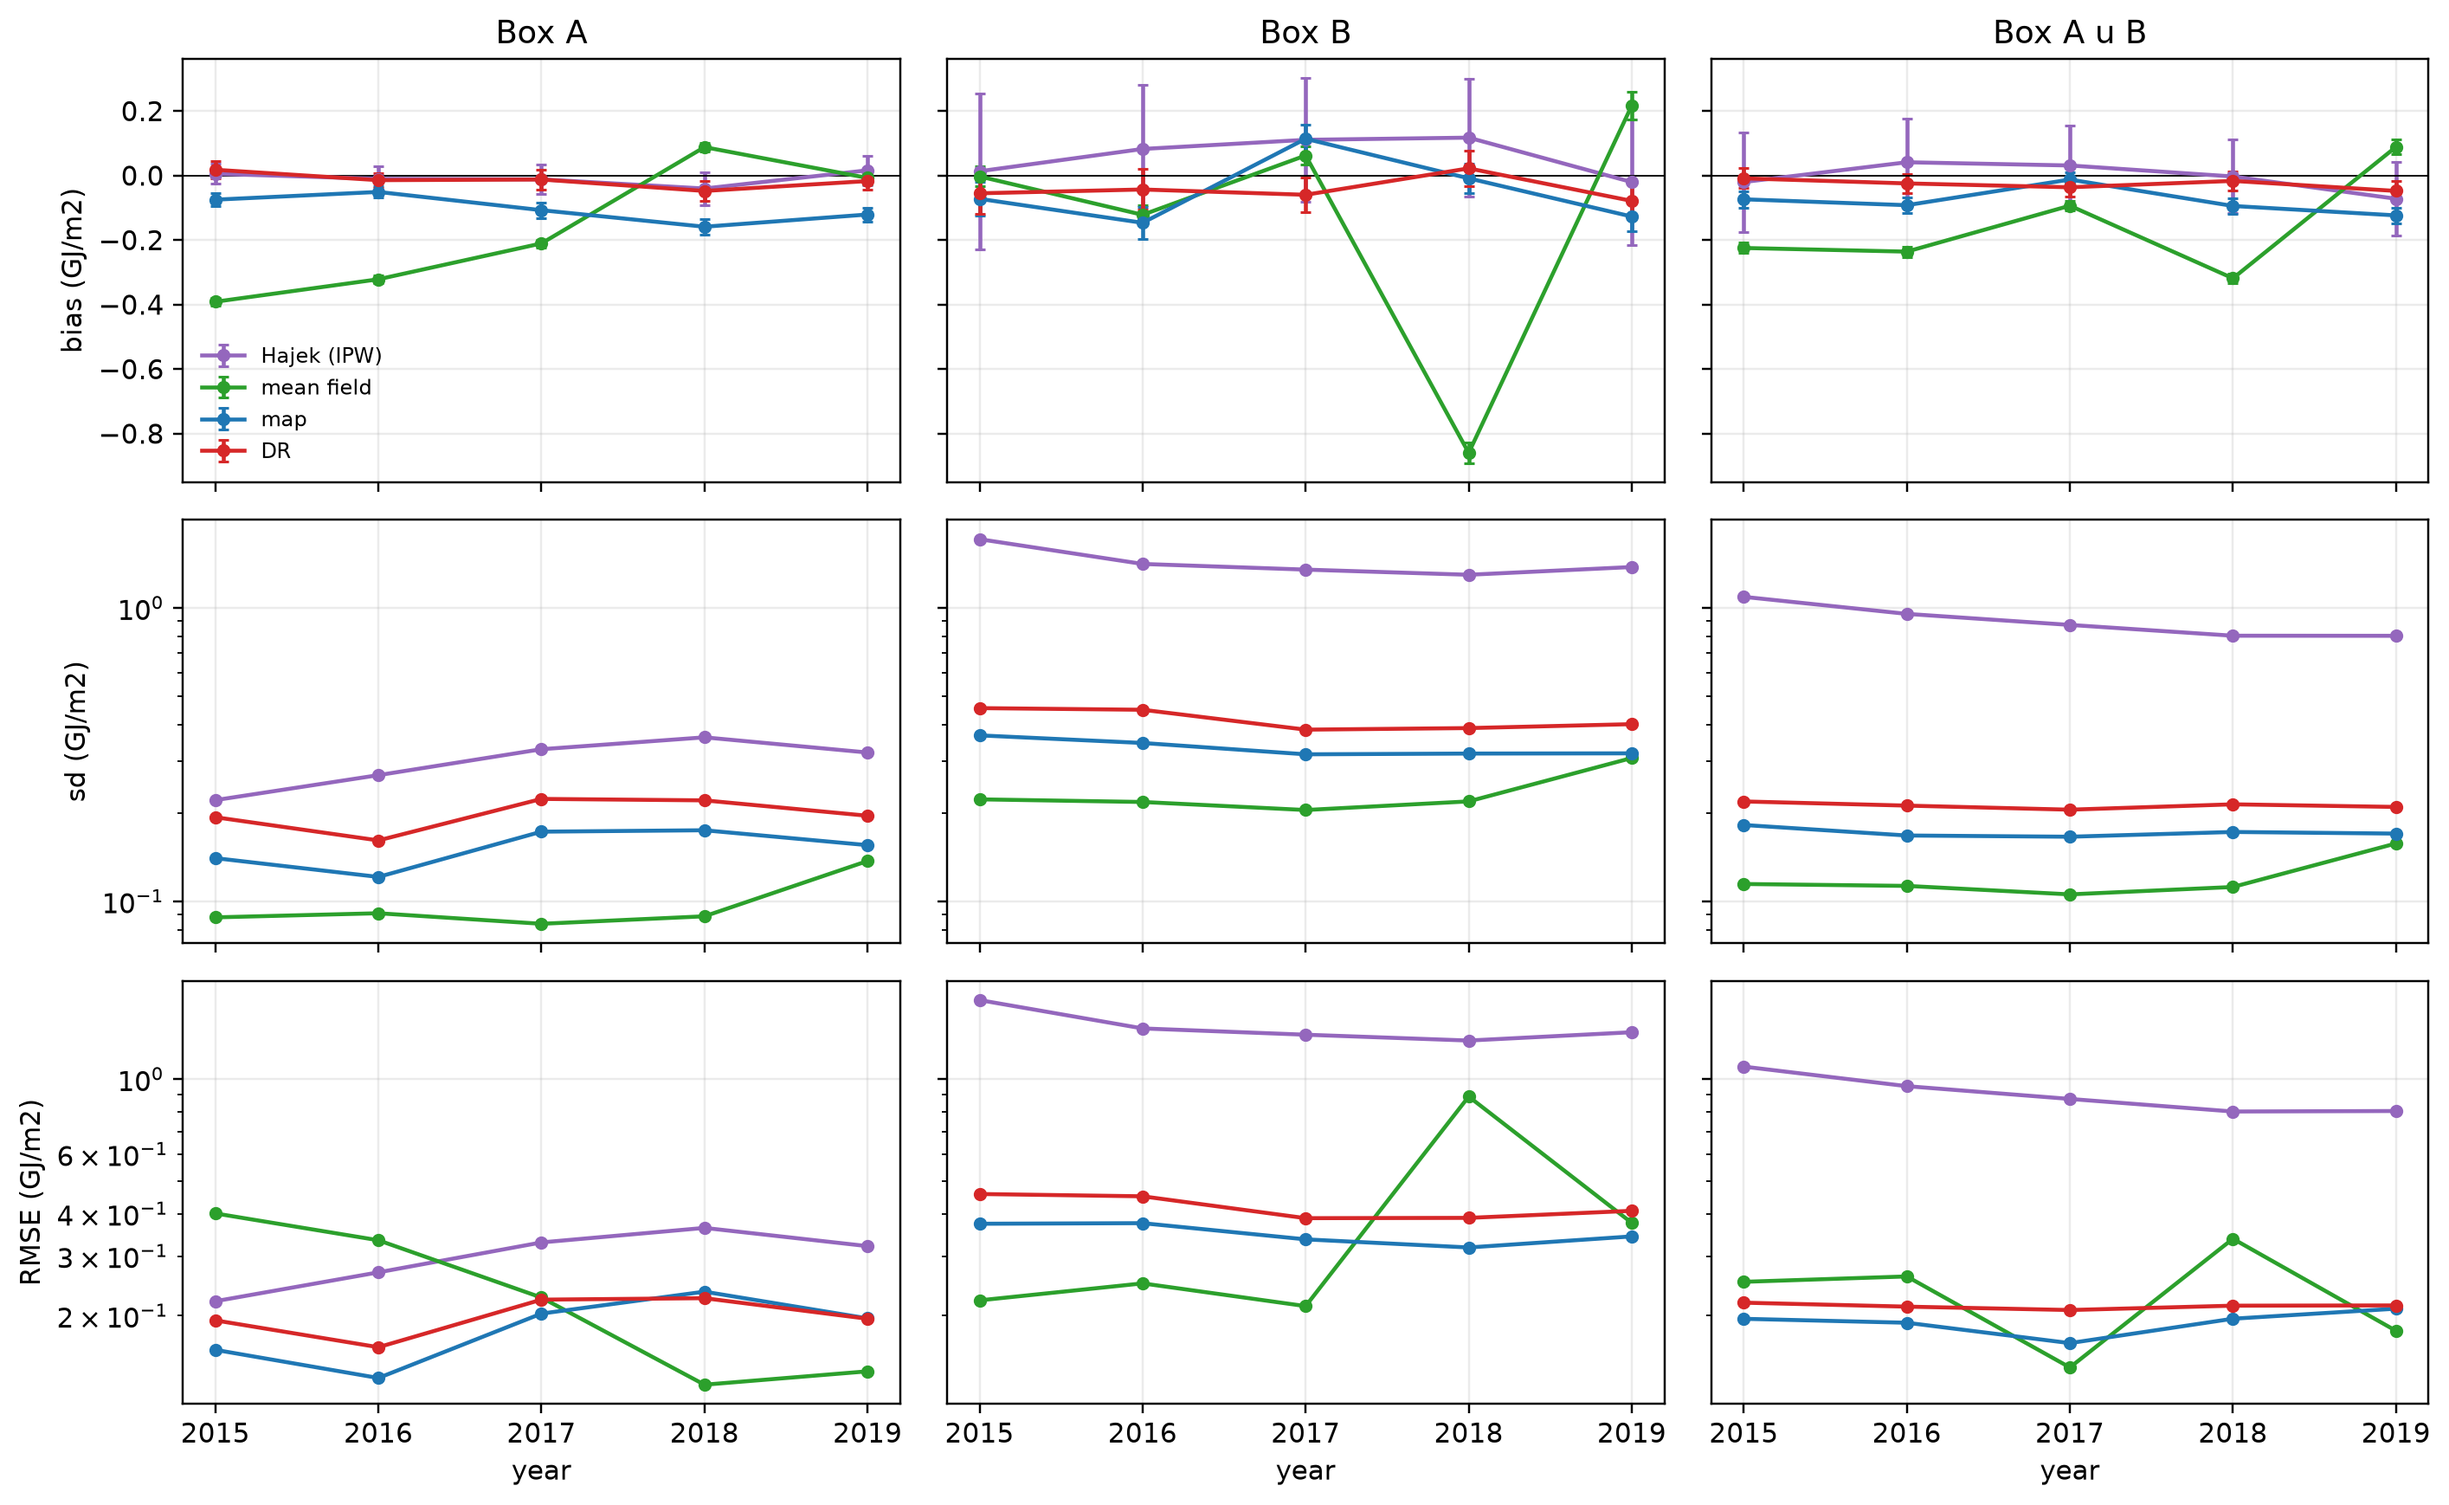
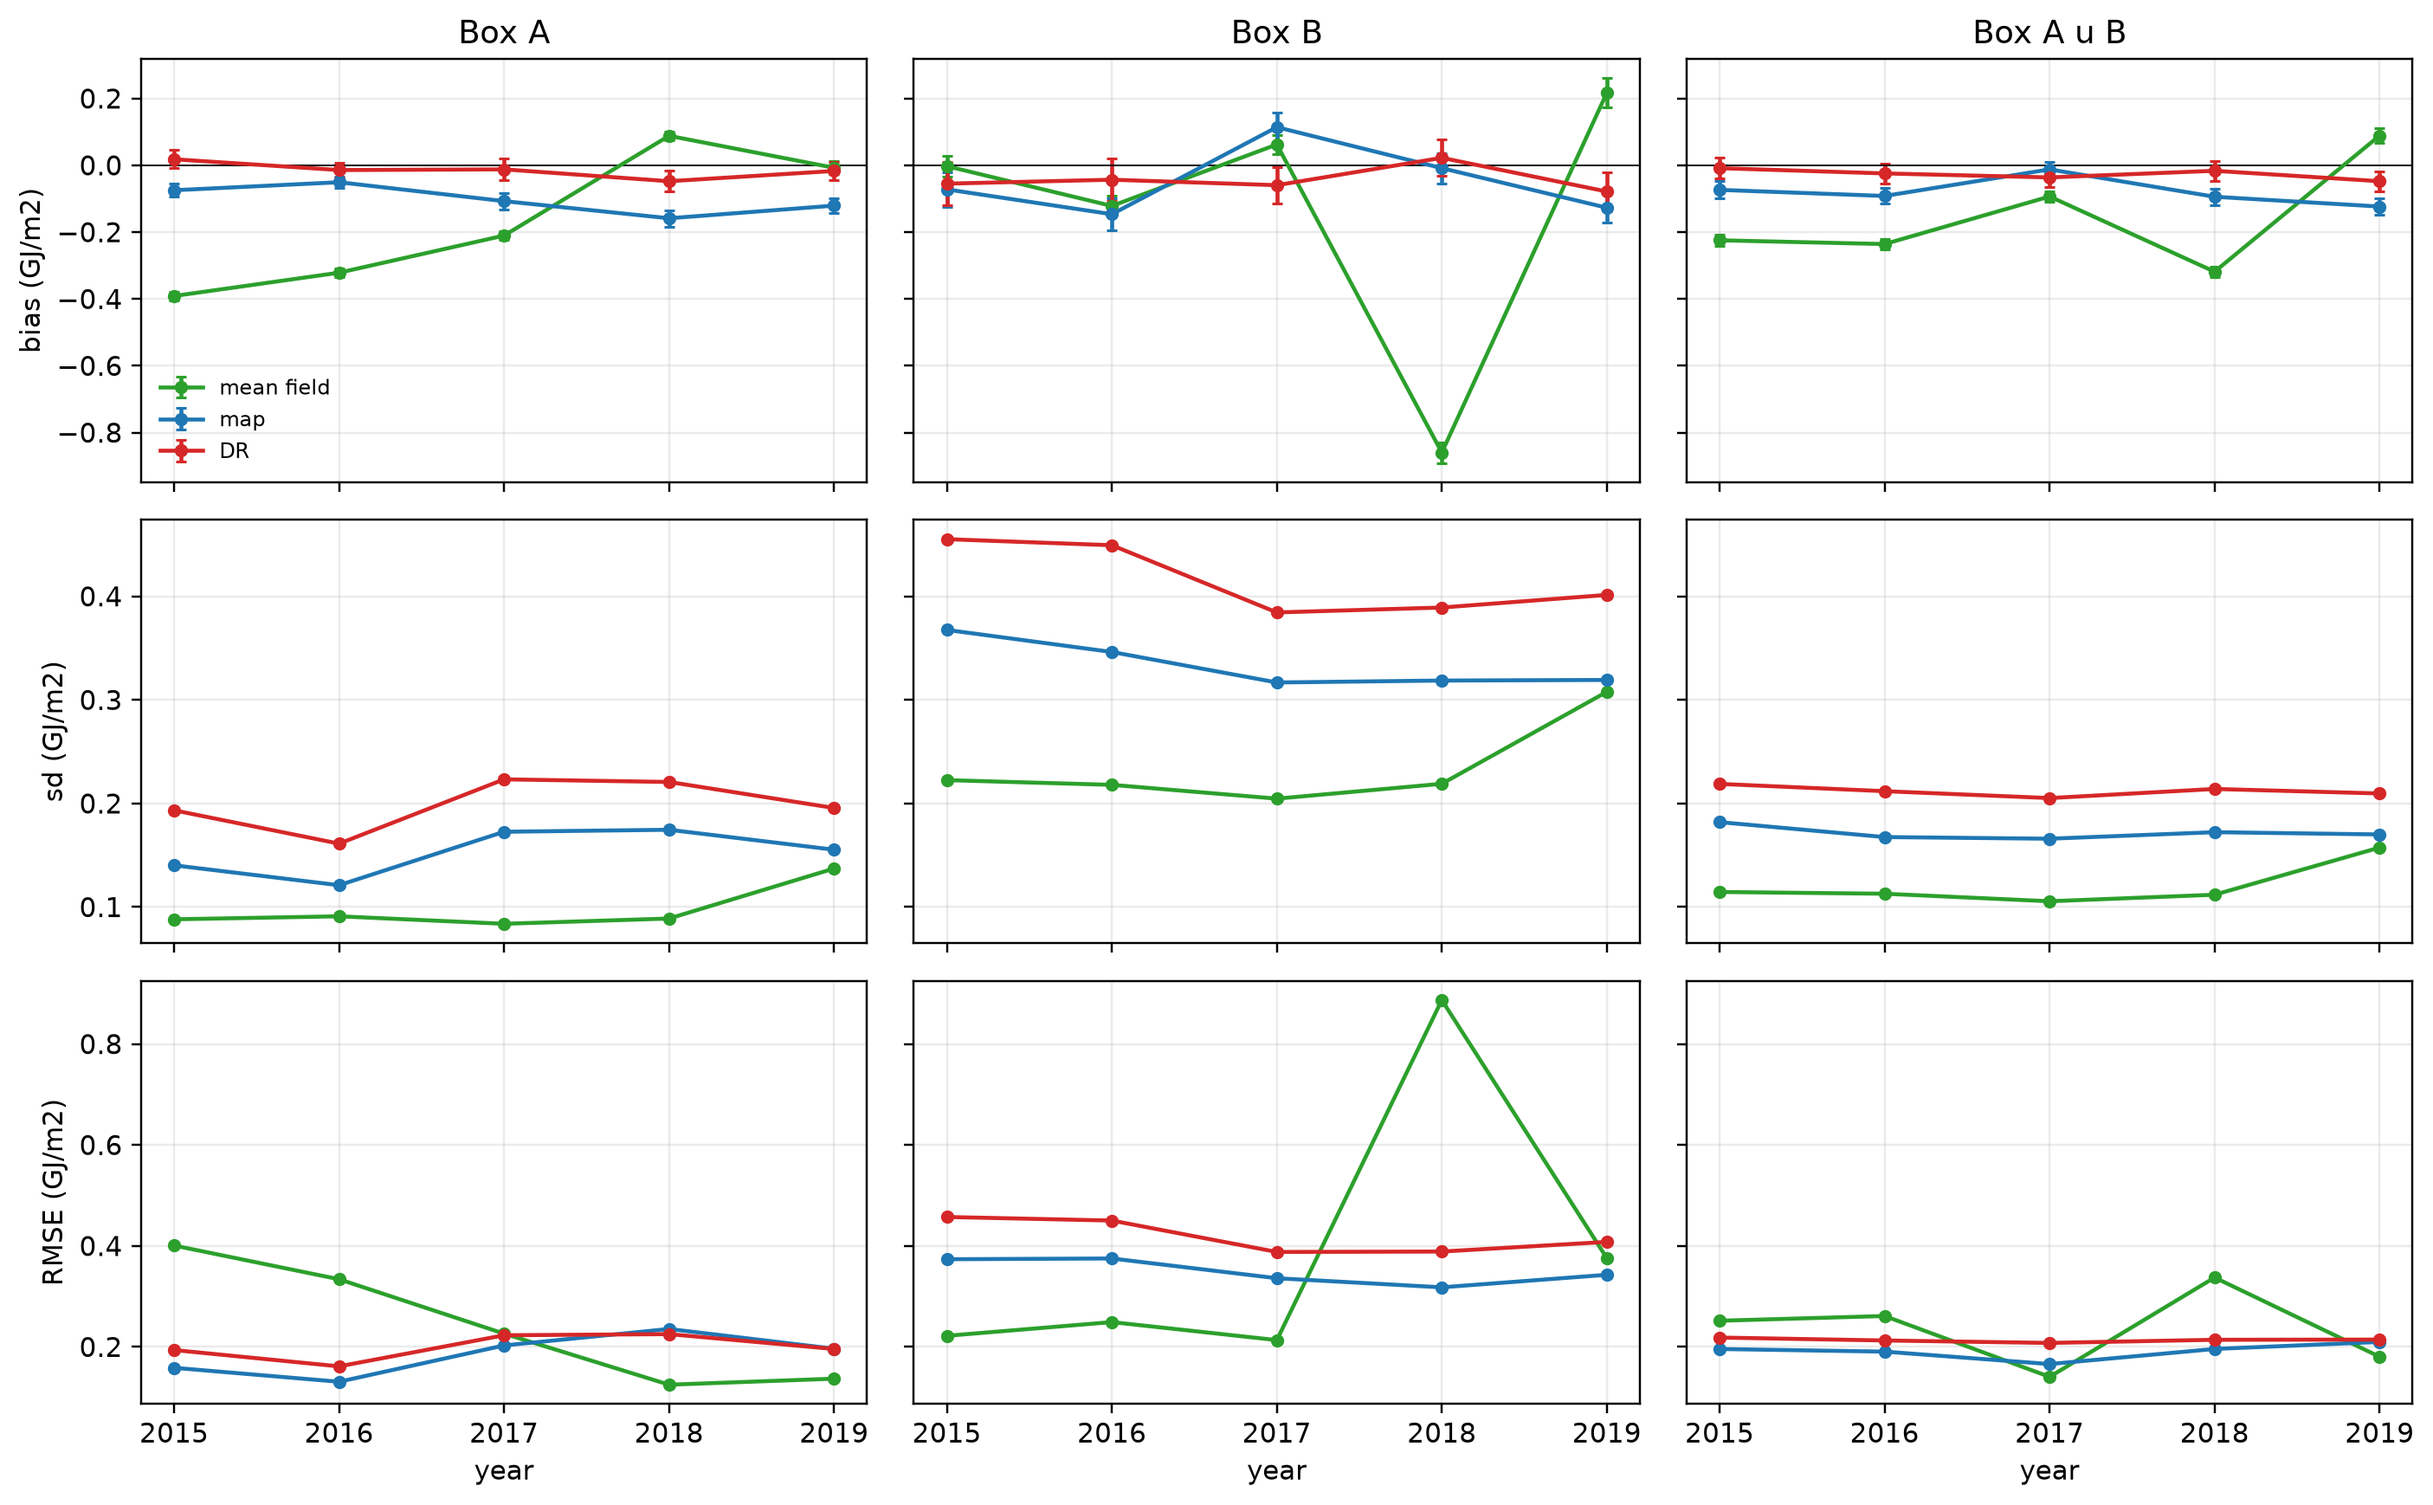
glorys_chain: drop Hajek from figures, quarterly q-hat grid, reweighting decomposition by cell

diff --git a/code/osim/chain.py b/code/osim/chain.py
@@ -610,6 +610,55 @@ def fold_means(maxrep=200):
     return out
 
 
+def residual_cells(maxrep=200):
+    """Held-out residuals pooled over replicates and years on the 0.5 deg node cells: count, mean residual,
+    mean relative weight r = v / mean v within its box-year-fold, and the sum of (r - 1) e, the cell's share
+    of C_k minus the unweighted mean (GJ/m2), cached."""
+    f = os.path.join(OUT, f"residual_cells{KS}.parquet")
+    if os.path.exists(f):
+        return pd.read_parquet(f)
+    out = []
+    for r in range(maxrep):
+        pf = rep_profiles(r)[0]
+        g = pf.groupby(["box", "year", "fold"])
+        pf = pf.assign(rel=pf.v / g.v.transform("mean"), e=pf.e * 1e-9, cnt=g.e.transform("size"))
+        out.append(pf.assign(shift=(pf.rel - 1) * pf.e / pf.cnt)[["box", "lat", "lon", "e", "rel", "shift"]])
+    p = pd.concat(out, ignore_index=True)
+    p["lat"] = (np.floor(p.lat / gd.NODE_DEG) + 0.5) * gd.NODE_DEG
+    p["lon"] = (np.floor(p.lon / gd.NODE_DEG) + 0.5) * gd.NODE_DEG
+    c = p.groupby(["box", "lat", "lon"]).agg(n=("e", "size"), e=("e", "mean"), rel=("rel", "mean"),
+                                            shift=("shift", "sum")).reset_index()
+    c["shift"] /= maxrep * len(YEARS) * K
+    c.to_parquet(f)
+    return c
+
+
+def plot_residual_cells(c, n_min=30, figsize=(14, 4.8)):
+    """Per 0.5 deg cell: the mean relative weight 1 / q-hat_k, the mean held-out map residual, and the cell's
+    contribution to the average gap between C_k and the unweighted residual mean."""
+    import matplotlib.pyplot as plt
+    from matplotlib.colors import LogNorm, TwoSlopeNorm
+    c = c[c.n >= n_min]
+    fig, ax = plt.subplots(1, 3, figsize=figsize, sharey=True)
+    xe, ye, g = _cells(c, c.rel)
+    lim = np.nanmax(np.abs(np.log(g)))
+    m = ax[0].pcolormesh(xe, ye, g, cmap="PuOr_r", norm=LogNorm(np.exp(-lim), np.exp(lim)))
+    fig.colorbar(m, ax=ax[0], shrink=0.7, orientation="horizontal", label="relative weight (log scale)")
+    for a, v, lab in ((ax[1], c.e, "mean residual Z - m(-k) (GJ/m2)"),
+                      (ax[2], c["shift"] * 1e3, "contribution to C_k - mean e (1e-3 GJ/m2)")):
+        xe, ye, g = _cells(c, v)
+        lim = np.nanquantile(np.abs(g), 0.99)
+        m = a.pcolormesh(xe, ye, g, cmap="RdBu_r", norm=TwoSlopeNorm(0, -lim, lim))
+        fig.colorbar(m, ax=a, shrink=0.7, orientation="horizontal", label=lab)
+    for a, t in zip(ax, ("weight 1/q-hat_k relative to its fold mean", "held-out map residual",
+                         "reweighting shift")):
+        _box_frame(a)
+        a.set_title(t, fontsize=10)
+    for a in ax[1:]:
+        a.set_ylabel("")
+    return fig
+
+
 def _cells(nd, v):
     """Node values on the regular 0.5 deg cell grid (edges, 2-d array) for pcolormesh."""
     i = np.floor(nd.lat.to_numpy() / gd.NODE_DEG).astype(int)
@@ -650,6 +699,38 @@ def plot_intensity(nd, prof, figsize=(12, 5.5)):
     for a in ax:
         _box_frame(a)
     fig.tight_layout()
+    return fig
+
+
+def plot_intensity_grid(nq=None, figsize=(12, 13)):
+    """Quarterly-mean design intensity q-hat = sum_c N_c q-hat_c, years by quarters, relative to its
+    area- and day-weighted mean over A u B in that year."""
+    import matplotlib.pyplot as plt
+    from matplotlib.colors import LogNorm
+    nq = pd.read_parquet(os.path.join(OUT, f"node_q{KS}.parquet")) if nq is None else nq
+    nq = nq[nq.box != "boxAB"]
+    Nc = cohort_sizes()
+    nq = nq.assign(q=nq[[f"q1_{c}" for c in Nc.index]].to_numpy(float) @ Nc.to_numpy(float),
+                   year=nq.month.dt.year, qtr=nq.month.dt.quarter, w=nq.month.dt.days_in_month)
+    qbar = nq.groupby("year").apply(lambda g: np.average(g.q, weights=g.w * g.area))
+    g = nq.assign(qw=nq.q * nq.w).groupby(["year", "qtr", "node", "lat", "lon"])[["qw", "w"]].sum().reset_index()
+    g["wh"] = g.qw / g.w / g.year.map(qbar)
+    pos = g.wh[g.wh > 0]
+    lim = np.abs(np.log(np.nanquantile(pos, [0.005, 0.995]))).max()
+    norm = LogNorm(np.exp(-lim), np.exp(lim))
+    years = sorted(g.year.unique())
+    fig, ax = plt.subplots(len(years), 4, figsize=figsize, sharex=True, sharey=True)
+    for i, y in enumerate(years):
+        for j in range(4):
+            d = g[(g.year == y) & (g.qtr == j + 1)]
+            xe, ye, v = _cells(d, np.where(d.wh > 0, d.wh, np.nan))
+            m = ax[i, j].pcolormesh(xe, ye, v, cmap="magma", norm=norm)
+            _box_frame(ax[i, j])
+            ax[i, j].set(xlabel="", ylabel="")
+            if i == 0:
+                ax[i, j].set_title(("Jan-Mar", "Apr-Jun", "Jul-Sep", "Oct-Dec")[j], fontsize=10)
+        ax[i, 0].set_ylabel(f"{y}\nlat")
+    fig.colorbar(m, ax=ax, shrink=0.5, label="w-hat = q-hat / annual mean (log scale)")
     return fig
 
 
@@ -808,8 +889,6 @@ def plot_by_year(s, est_lab, box_lab, figsize=(13, 8)):
         ax[-1, j].set(xlabel="year", xticks=sorted(yr))
     for i, (_, lab) in enumerate(rows):
         ax[i, 0].set_ylabel(lab)
-    for a in ax[1:].ravel():
-        a.set_yscale("log")
     ax[0, 0].legend(fontsize=8, frameon=False)
     fig.tight_layout()
     return fig
